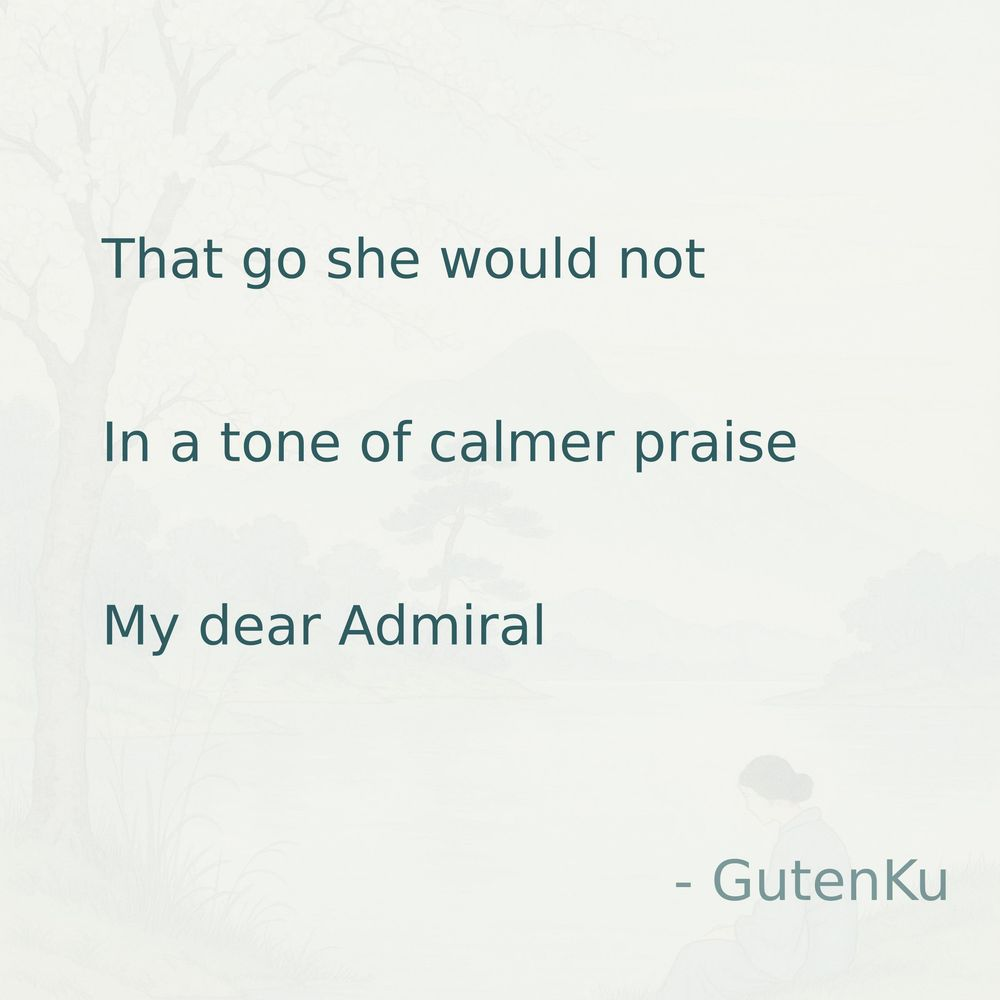
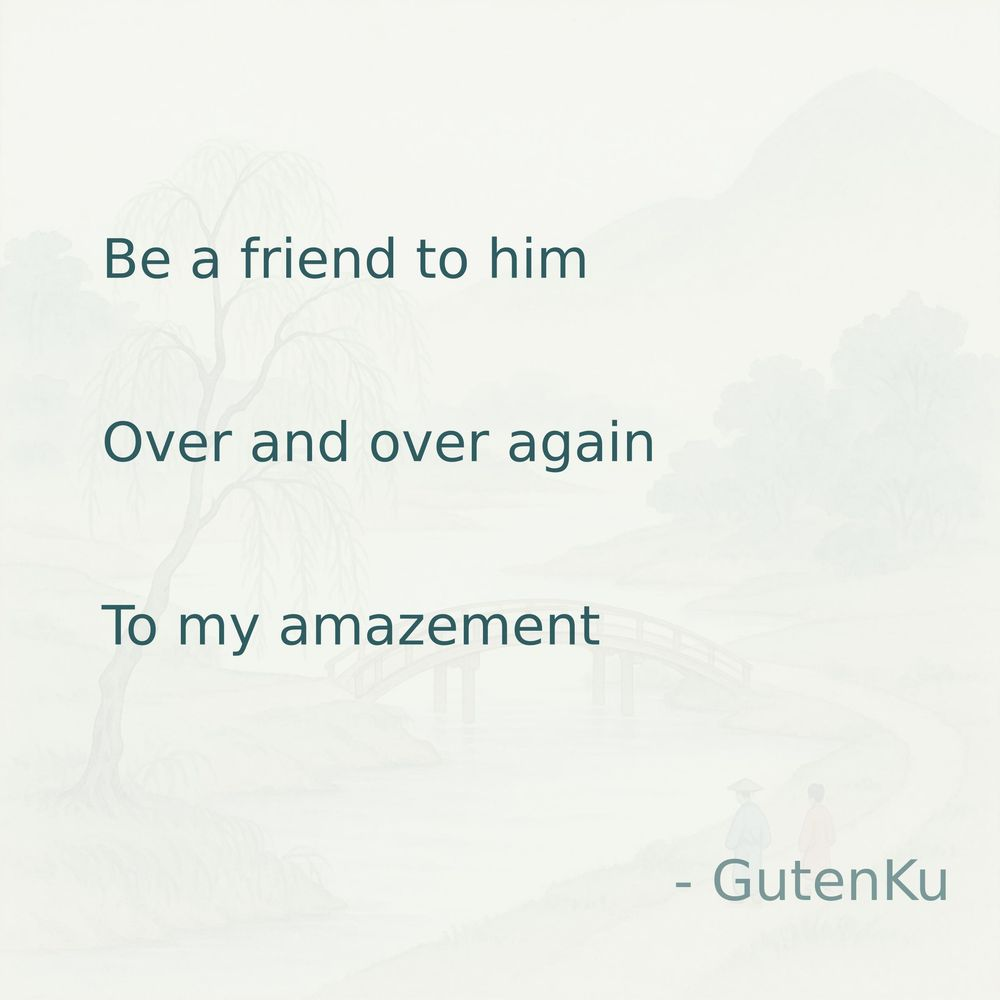
docs(readme): updated daily haiku card

Changed region(s): [[0.093, 0.589, 0.589, 0.651], [0.093, 0.403, 0.806, 0.465], [0.093, 0.217, 0.713, 0.31]]

diff --git a/README.md b/README.md
@@ -2,11 +2,11 @@
 
 ## 🌸 Daily Haiku Card 🗻
 
-<img src="/assets/img/daily_haiku_card.jpg?t=1766433410" width="300" alt="Daily Haiku Card">
+<img src="/assets/img/daily_haiku_card.jpg?t=1766433553" width="300" alt="Daily Haiku Card">
 
-Last Snapshot: `Mon, 22 Dec 2025 19:56:50 +0000`
+Last Snapshot: `Mon, 22 Dec 2025 19:59:13 +0000`
 
-> 👩🏫 “This haiku captures a moment of serene contemplation, where the speaker reflects on a day that appeared to be idyllic. The phrase 'As it seemed to me' suggests a subjective interpretation of beauty and happiness, inviting readers to consider the nature of perception. The use of 'very pleasant' emphasizes the emotional response to this day, while 'however perfect' introduces a subtle irony, hinting at the complexity of experiences that may lie beneath surface appearances. Overall, the haiku evokes a sense of fleeting beauty and the ephemeral nature of joy, encouraging contemplation of both the seen and the unseen.”
+> 👩🏫 “This haiku captures the essence of unwavering loyalty and the beauty of repeated acts of kindness in friendship. The first line, 'Be a friend to him,' serves as a gentle imperative, urging the reader to extend compassion and support to another person. The second line, 'Over and over again,' emphasizes the idea of consistency and perseverance in maintaining relationships, suggesting that true friendship involves continual efforts and commitment. The final line, 'To my amazement,' expresses a sense of wonder and gratitude for the enduring nature of these connections, highlighting how such loyalty can inspire awe in the observer. Overall, this haiku reflects the profound impact that steadfast friendships can have on our lives, celebrating both the act of giving and the joy it brings.”
 >
 > 🤖✒ _Analysis Written by BotenKu, Your devoted Bot Literature Teacher_
 
